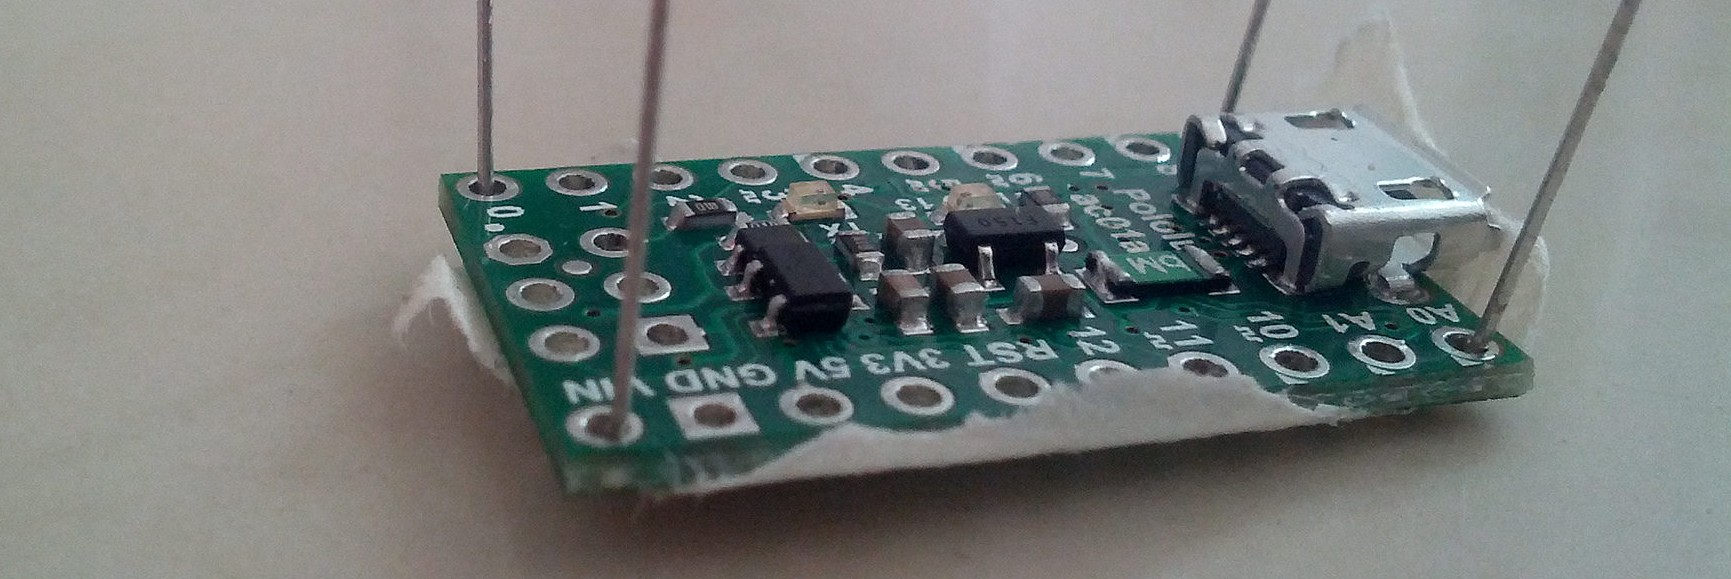
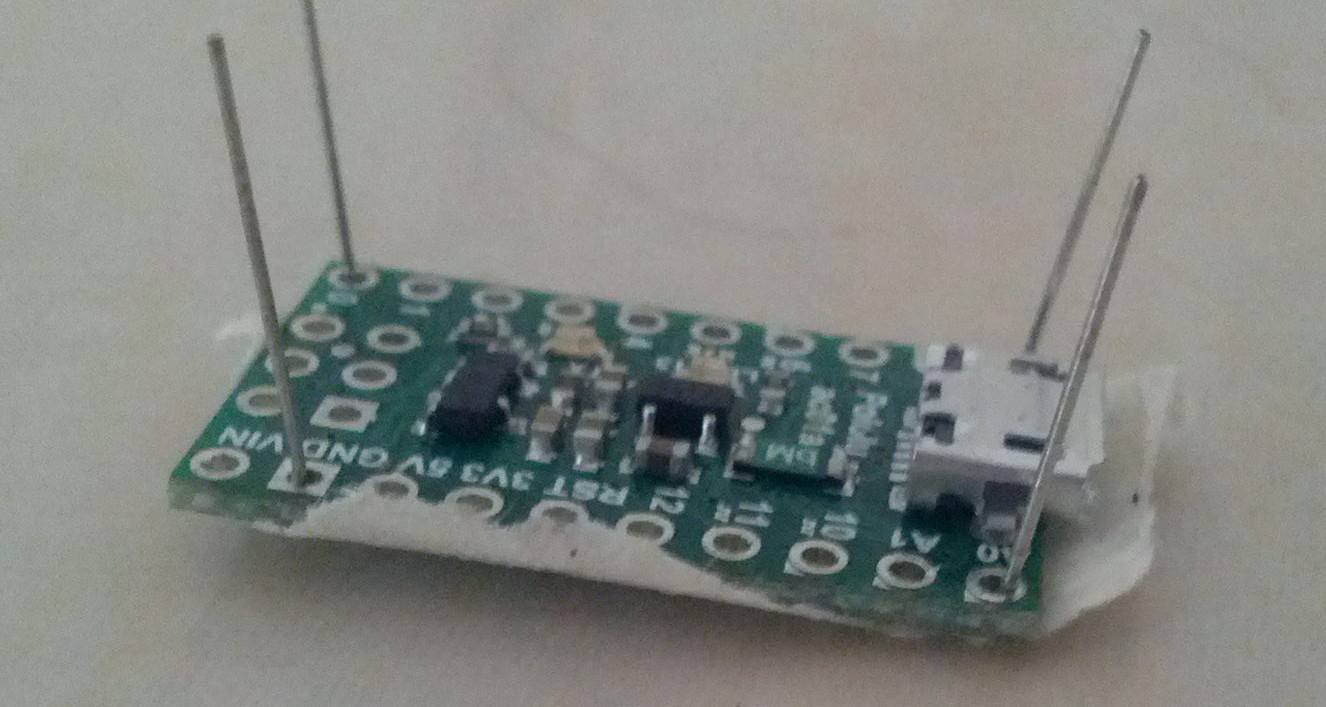
Fix taped-pins photo; thanks @arthurnn.

diff --git a/assembly/assembly.tex b/assembly/assembly.tex
@@ -152,7 +152,9 @@ closing when you're done.
 
 Take four trimmed diode legs and bend them into an L shape. Hold the
 controller upside down and insert the diode legs into the holes at the
-corners, fixing them in place with tape. Try to get them to point straight.
+corners, (except for the VIN corner, which is not used; use the GND
+hole instead as indicated in the picture below) fixing them in place
+with tape. Try to get them to point straight.
 
 \vspace{1em}
 \noindent\makebox[\textwidth]{%
